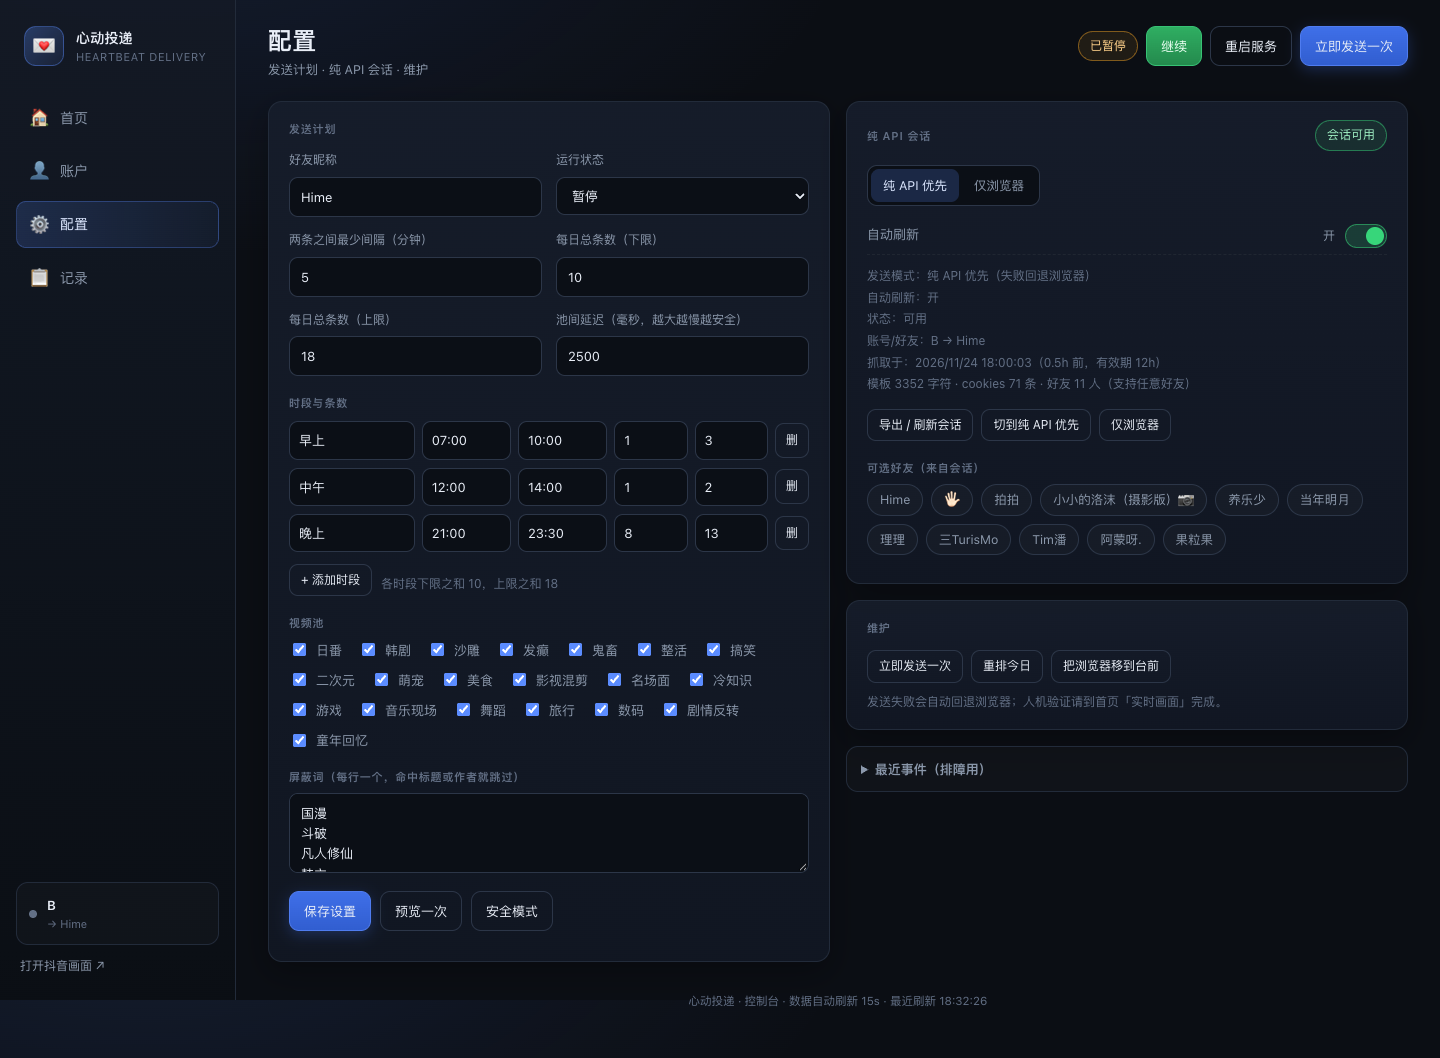
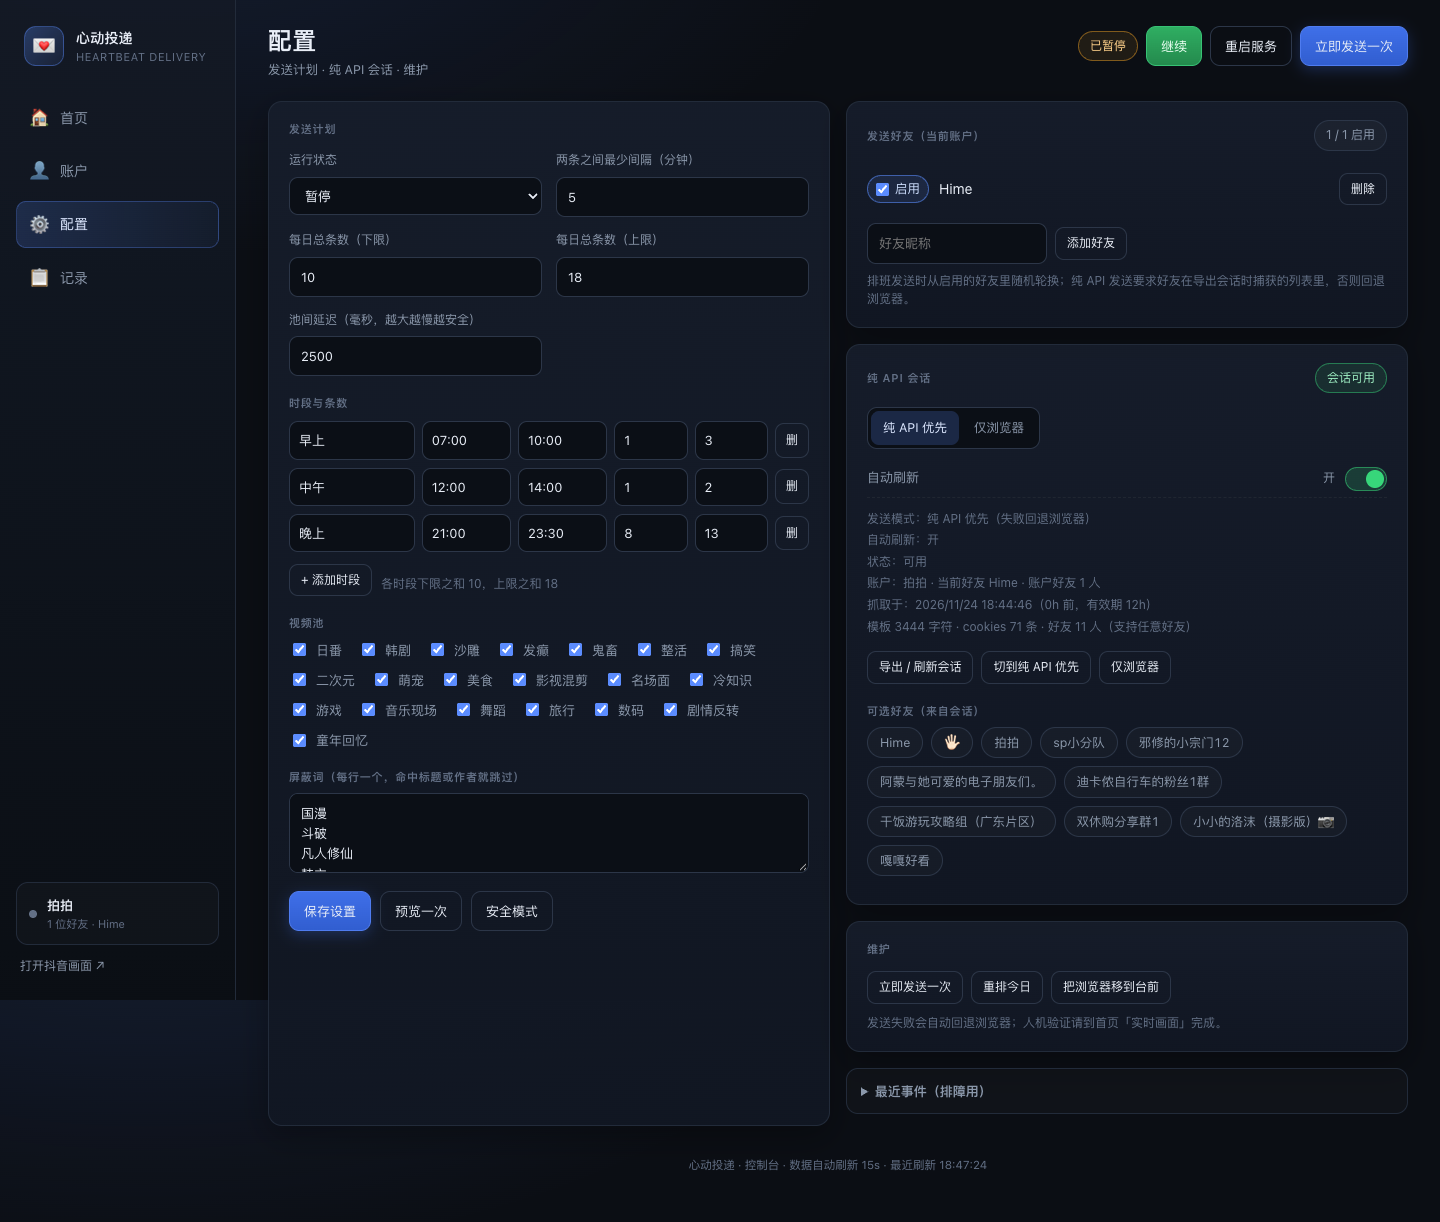
feat: 面板一键启动浏览器登录 + host 退出清理浏览器(0.14.0)
- POST /api/browser/start: 为当前账户按需启动 browser-server,「实时画面」自动调用
- 新账户默认暂停,切到账户→实时画面→扫码→继续
- host.stop 关闭 dashboard 按需启动的浏览器,避免退出后残留
- 文档补充登录流程

diff --git a/src/host.js b/src/host.js
@@ -16,9 +16,9 @@ const sleep = (ms) => new Promise((r) => setTimeout(r, ms));
 function readAccounts(dataDir) {
   try {
     const db = new DatabaseSync(path.join(dataDir, 'app.db'));
-    const rows = db.prepare('SELECT label FROM accounts ORDER BY id').all();
+    const rows = db.prepare('SELECT label, port FROM accounts ORDER BY id').all();
     db.close();
-    return rows.map((r) => String(r.label)).filter(Boolean);
+    return rows.map((r) => ({ label: String(r.label), port: Number(r.port) })).filter((r) => r.label);
   } catch (e) {
     return [];
   }
@@ -169,7 +169,7 @@ class Host {
   // one scheduler child per account: each child has its own profile, port, plan and API session
   spawnSchedules() {
     const labels = readAccounts(this.dataDir);
-    const targets = labels.length ? labels : [''];
+    const targets = labels.length ? labels.map((r) => r.label) : [''];
     for (const label of targets) {
       const name = label ? `schedule:${label}` : 'schedule';
       const args = ['src/index.js', 'schedule'];
@@ -251,6 +251,12 @@ class Host {
     for (const child of kids) {
       try {
         child.kill('SIGKILL');
+      } catch (e) {}
+    }
+    // browsers started on demand by the dashboard are detached; ask them to close too
+    for (const acc of readAccounts(this.dataDir)) {
+      try {
+        await fetch(`http://127.0.0.1:${acc.port}/quit`, { method: 'POST', signal: AbortSignal.timeout(1500) });
       } catch (e) {}
     }
     this.children = {};

diff --git a/src/page.html b/src/page.html
@@ -1030,12 +1030,18 @@ function screenRefresh() {
   const img = $('#screenImg');
   if (img && img.offsetParent !== null) img.src = '/api/screen?t=' + Date.now();
 }
+async function ensureBrowserForScreen() {
+  try { await postJSON('/api/browser/start'); } catch (e) { /* browser may already be running */ }
+}
+
 function showScreen(show) {
   const card = $('#homeScreenCard');
   card.style.display = show ? '' : 'none';
   if (show) {
-    state.screenTimer = setInterval(screenRefresh, 2500);
-    screenRefresh();
+    ensureBrowserForScreen().then(() => {
+      state.screenTimer = setInterval(screenRefresh, 2500);
+      setTimeout(screenRefresh, 1800);
+    });
     card.scrollIntoView({ behavior: 'smooth', block: 'center' });
   } else if (state.screenTimer) {
     clearInterval(state.screenTimer); state.screenTimer = null;
@@ -1202,7 +1208,7 @@ function bindHomeActions() {
   $('#acctResume').onclick = () => control('resume');
   $('#acctRestart').onclick = () => control('restart');
   $('#acctOpenScreen').onclick = () => { navigate('home'); setTimeout(() => showScreen(true), 300); };
-  $('#acctOpenViewer').onclick = () => window.open('/viewer', '_blank');
+  $('#acctOpenViewer').onclick = () => { navigate('home'); setTimeout(() => { showScreen(true); windowAction(true); }, 300); };
 }
 
 function bindRecordsActions() {

diff --git a/src/dashboard.js b/src/dashboard.js
@@ -244,6 +244,23 @@ function startServer({ host = env.dashboard.host, port = env.dashboard.port } = 
         runSendJob({ dry }).catch(() => {});
         return send(res, 202, { ok: true, job: sendJob });
       }
+      if (u.pathname === '/api/browser/start' && req.method === 'POST') {
+        const acc = currentAccount();
+        const state = await service.browserStatus(acc.port);
+        if (state.up) return send(res, 200, { ok: true, already: true, url: state.url || null });
+        try {
+          const child = spawn(
+            process.execPath,
+            [path.join(env.ROOT, 'src', 'browser-server.js'), '--profile', env.browserProfileDir(acc.profile_dir), '--port', String(acc.port)],
+            { cwd: env.ROOT, env: process.env, detached: true, stdio: 'ignore', windowsHide: true }
+          );
+          child.unref();
+          repos.logEvent('browser-start', { account: acc.label });
+          return send(res, 200, { ok: true, started: true });
+        } catch (e) {
+          return send(res, 500, { ok: false, error: e.message.split('\n')[0] });
+        }
+      }
       if (u.pathname === '/api/screen') {
         const acc = currentAccount();
         try {

diff --git a/docs/ui.md b/docs/ui.md
@@ -16,7 +16,7 @@
 切换面板。所有启用的账户由各自调度子进程**同时按自己的排班发送**；「切到面板」只影响查看的数据。
 浏览器登录态和纯 API 会话都按账户独立。
 
-添加账户：账户名称、端口（可自动）、第一个好友。新账户默认暂停，切到该账户扫码登录后点「继续」。
+添加账户：账户名称、端口（可自动）、第一个好友。新账户默认暂停；切到该账户后打开「实时画面」会自动启动浏览器，扫码登录后点「继续」启用。
 
 ![账户](assets/ui-accounts.png)
 
